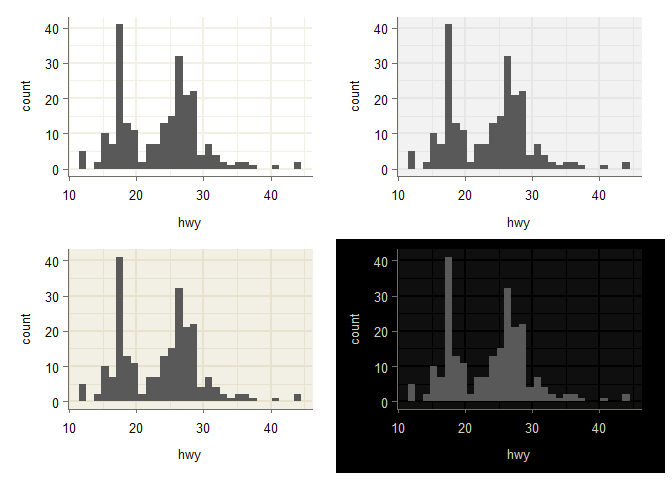
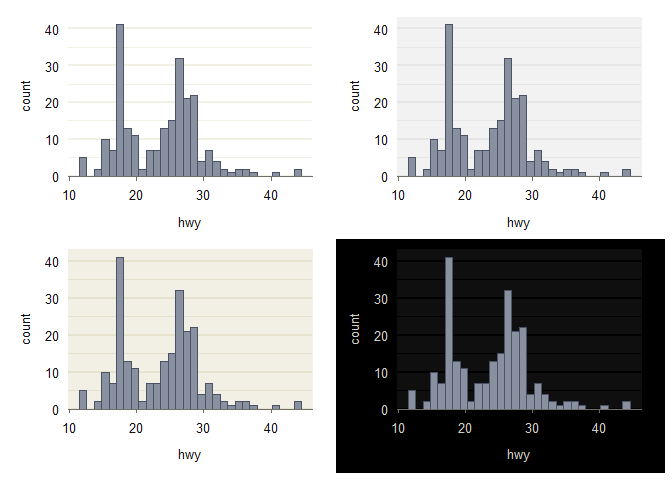
Update

diff --git a/README.md b/README.md
@@ -33,33 +33,17 @@ library(patchwork)
 
 p <- mpg |>
   ggplot() +
-  geom_histogram(aes(x = hwy))
+  geom_histogram(aes(x = hwy),
+                 fill = jumble::slate,
+                 colour = paletteblend::multiply(jumble::slate)) +
+  scale_y_continuous(expand = expansion(mult = c(0, 0.05)))
 
-p1 <- p + theme_lighter() 
-p2 <- p + theme_greyer() 
-p3 <- p + theme_beiger() 
-p4 <- p + theme_darker() 
+p1 <- p + theme_lighter() + polish_modern()
+p2 <- p + theme_greyer() + polish_modern()
+p3 <- p + theme_beiger() + polish_modern()
+p4 <- p + theme_darker() + polish_modern()
 
 p1 + p2 + p3 + p4
-#> `stat_bin()` using `bins = 30`. Pick better value `binwidth`.
-#> `stat_bin()` using `bins = 30`. Pick better value `binwidth`.
-#> `stat_bin()` using `bins = 30`. Pick better value `binwidth`.
-#> `stat_bin()` using `bins = 30`. Pick better value `binwidth`.
 ```
 
 <img src="man/figures/README-example-1.png" alt="" width="100%" />
-
-``` r
-p1 <- p + theme_lighter() + polish_modern(focus = "x", x_type = "continuous", y = "continuous") 
-p2 <- p + theme_lighter() + polish_science(focus = "x", x_type = "continuous", y = "continuous")
-p3 <- p + theme_lighter() + polish_void(focus = "x", x_type = "continuous", y = "continuous")
-p4 <- p + theme_lighter() + polish_none(focus = "x", x_type = "continuous", y = "continuous")
-
-p1 + p2 + p3 + p4
-#> `stat_bin()` using `bins = 30`. Pick better value `binwidth`.
-#> `stat_bin()` using `bins = 30`. Pick better value `binwidth`.
-#> `stat_bin()` using `bins = 30`. Pick better value `binwidth`.
-#> `stat_bin()` using `bins = 30`. Pick better value `binwidth`.
-```
-
-<img src="man/figures/README-unnamed-chunk-2-1.png" alt="" width="100%" />
